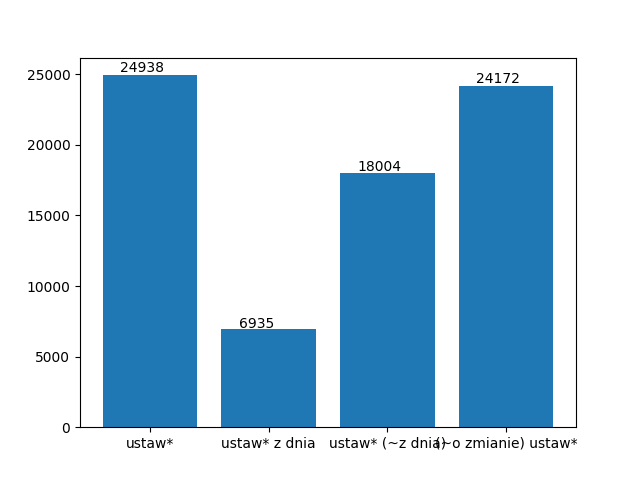
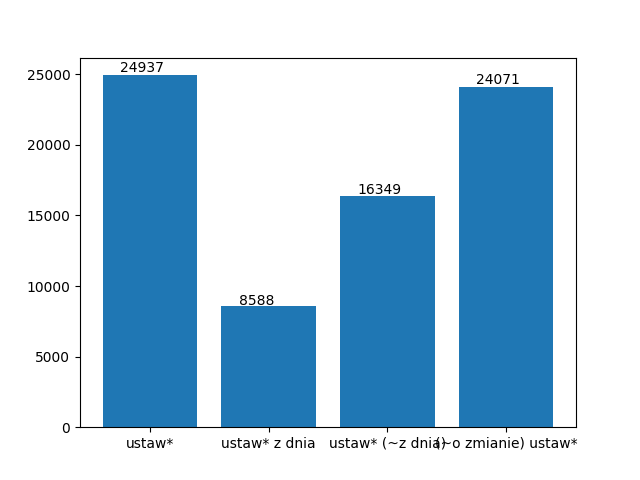
[1] small prefix fixes, [2] setup docker

diff --git a/1_regex/inflectional_word_counter_main.py b/1_regex/inflectional_word_counter_main.py
@@ -12,6 +12,20 @@ def count_by_regex(acts, reg) -> Counter:
         global_counter += Counter(p.findall(text))
     return global_counter
 
+# function to test if two regexes have a common match (to debug)
+def check_by_regex(acts, reg, reg2) -> Counter:
+    p = regex.compile(reg, regex.IGNORECASE)
+    p2 = regex.compile(reg2, regex.IGNORECASE)
+    for act_name, _, text in acts:
+        
+        test1 = np.array([ m.start(0) for m in p.finditer(text, regex.IGNORECASE) ])
+        test2 = np.array([ m.start(0) for m in p2.finditer(text, regex.IGNORECASE) ])
+        
+        common = np.intersect1d(test1, test2)
+        l = len(common)
+        if l > 0:
+            print(act_name, common[0], text[common[0]:common[0]+20])
+    return 0
 
 def plot_ctrs(ctrs: [int]):
     x_pos = np.arange(len(ctrs))
@@ -26,24 +40,26 @@ def plot_ctrs(ctrs: [int]):
 def main():
     acts_reader = ActsReader('../ustawy')
     acts = lambda: acts_reader.all_acts()
-    # acts = lambda: acts_reader.random_n_acts(10)
+    # acts = lambda: acts_reader.random_n_acts(1)
 
     print('Words with "ustaw" infix:')
     print(count_by_regex(acts(), r'ustaw[\w]*'))
 
-    ustaw_ctr = count_by_regex(acts(), r'(ustaw)(\b|a|ą|ach|ami|ę|ie|om|y)')
+    ustaw_ctr = count_by_regex(acts(), r'(ustaw)(a|ą|ach|ami|ę|ie|om|y)?\b')
     print('All forms from the word "ustawa":')
     print(ustaw_ctr)
     ustaw_total = np.sum(list(ustaw_ctr.values()))
     print(f'Total count: {ustaw_total}')
 
-    ustaw_followed_by_ctr = count_by_regex(acts(), r'(ustaw)(\b|a|ą|ach|ami|ę|ie|om|y)(?= z dnia)')
+    # check_by_regex(acts(), r'(ustaw)(a|ą|ach|ami|ę|ie|om|y)?\b+(?=\s+z\s+dnia)', r'(ustaw)(a|ą|ach|ami|ę|ie|om|y)?\b+(?!\s+z\s+dnia)')
+
+    ustaw_followed_by_ctr = count_by_regex(acts(), r'(ustaw)(a|ą|ach|ami|ę|ie|om|y)?\b+(?=\s+z\s+dnia)')
     print('All forms from the word "ustawa" followed by "z dnia":')
     print(ustaw_followed_by_ctr)
     ustaw_followed_by_total = np.sum(list(ustaw_followed_by_ctr.values()))
     print(f'Total count: {ustaw_followed_by_total}')
 
-    ustaw_not_followed_by_ctr = count_by_regex(acts(), r'(ustaw)(\b|a|ą|ach|ami|ę|ie|om|y)(?! z dnia)')
+    ustaw_not_followed_by_ctr = count_by_regex(acts(), r'(ustaw)(a|ą|ach|ami|ę|ie|om|y)?\b+(?!\s+z\s+dnia)')
     print('All forms from the word "ustawa" not followed by "z dnia":')
     print(ustaw_not_followed_by_ctr)
     ustaw_not_followed_by_total = np.sum(list(ustaw_not_followed_by_ctr.values()))
@@ -52,7 +68,7 @@ def main():
     print(f'Check: {ustaw_total} =?= {ustaw_followed_by_total} + {ustaw_not_followed_by_total} = '
           f'{ustaw_followed_by_total + ustaw_not_followed_by_total}')
 
-    ustaw_not_following_ctr = count_by_regex(acts(), r'(?<!o zmianie )(ustaw)(\b|a|ą|ach|ami|ę|ie|om|y)')
+    ustaw_not_following_ctr = count_by_regex(acts(), r'(?<!o\s+zmianie\s+)(ustaw)(a|ą|ach|ami|ę|ie|om|y)?\b')
     print('All forms from the word "ustawa" not following "o zmianie":')
     print(ustaw_not_following_ctr)
     ustaw_not_following_total = np.sum(list(ustaw_not_following_ctr.values()))

diff --git a/1_regex/by_phrase_counter.py b/1_regex/by_phrase_counter.py
@@ -15,7 +15,7 @@ class ByPhraseUnitCounter:
         return self.count_by_regex_total(acts, r'dodaje[\s]+się[\s]+([\w§]+)')
 
     def count_removals(self, acts) -> Counter:
-        return self.count_by_regex_total(acts, r'skreśla[\s]+się[\s]+([\w§]+)')
+        return self.count_by_regex_total(acts, r'(?:skreśla[\s]+się[\s]+|uchyla[\s]+się[\s]+)([\w§]+)')
 
     def count_changes(self, acts) -> Counter:
         return self.count_by_regex_total(acts, r'([\w§]+)\.*[\s]+\d+[\s]+otrzymuje brzmienie')
@@ -32,7 +32,7 @@ class ByPhraseUnitCounter:
         return self.count_by_regex_by_year(acts, years, r'dodaje[\s]+się[\s]+([\w§]+)')
 
     def count_removals_by_year(self, acts, years) -> {int: Counter}:
-        return self.count_by_regex_by_year(acts, years, r'skreśla[\s]+się[\s]+([\w§]+)')
+        return self.count_by_regex_by_year(acts, years, r'(?:skreśla[\s]+się[\s]+|uchyla[\s]+się[\s]+)([\w§]+)')
 
     def count_changes_by_year(self, acts, years) -> {int: Counter}:
         return self.count_by_regex_by_year(acts, years, r'([\w§]+)\.*[\s]+\d+[\s]+otrzymuje brzmienie')

diff --git a/1_regex/README.md b/1_regex/README.md
@@ -4,9 +4,9 @@ Task: https://github.com/apohllo/nlp/blob/master/1-regexp.md
 
 ## Count amendments by phrase
 Amendments are found by specific words that should appear in a text: \
-additions regex: `dodaje się ([\w§]+)` \
-removals regex: `skreśla się ([\w§]+)` \
-changes regex: `([\w§]+)\.* \d+ otrzymuje brzmienie`
+additions regex: `dodaje[\s]+się[\s]+([\w§]+)` \
+removals regex: `(?:skreśla[\s]+się[\s]+|uchyla[\s]+się[\s]+)([\w§]+)` \
+changes regex: `([\w§]+)\.*[\s]+\d+[\s]+otrzymuje brzmienie`
 
 ![Types of additions](./img/phrase_counter/by_unit_additions.png)
 ![Types of removals](./img/phrase_counter/by_unit_removals.png)
@@ -25,10 +25,13 @@ Amendments of units by year:
  
 ## Inflectional word counter
 Regexs:\
-Word "ustawa": `(ustaw)(\b|a|ą|ach|ami|ie|om|y)`\
-Word "ustawa" followed by "z dnia": `(ustaw)(\b|a|ą|ach|ami|ie|om|y)(?= z dnia)`\
-Word "ustawa" not followed by "z dnia": `(ustaw)(\b|a|ą|ach|ami|ie|om|y)(?! z dnia)`\
-Word "ustawa" following "o zmianie": `(?<!o zmianie )(ustaw)(\b|a|ą|ach|ami|ie|om|y)`
+Word "ustawa": `(ustaw)(a|ą|ach|ami|ę|ie|om|y)?\b`\
+Word "ustawa" followed by "z dnia": `(ustaw)(a|ą|ach|ami|ę|ie|om|y)?\b+(?=\s+z\s+dnia)`\
+Word "ustawa" not followed by "z dnia": `(ustaw)(a|ą|ach|ami|ę|ie|om|y)?\b+(?!\s+z\s+dnia)`\
+Word "ustawa" following "o zmianie": `(?<!o\s+zmianie\s+)(ustaw)(a|ą|ach|ami|ę|ie|om|y)?\b`
 
 ![Counts for different tasks](./img/inflectional_word_counter/word_counts.png)
  
+
+ ### Small mistakes
+ At the beginning the second and third point were set to `(ustaw)(\b|a|ą|ach|ami|ie|om|y)(?!\s+z\s+dnia)` and `(ustaw)(\b|a|ą|ach|ami|ie|om|y)(?!\s+z\s+dnia)`. Their sum was bigger by one than the count from the first point. The problematic place (matched twice) was `ustawach z dnia` in `1994_473.txt`. It happened because `ustawach` is prefixed by `ustawa` and both are correct matches so the first regex matched `ustawach z dnia` and the second matched `ustawa(~z dnia)` so it was counted twice. `\b` at the end solves problem. 
